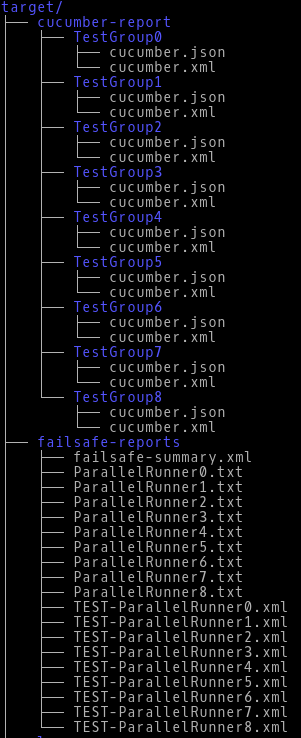
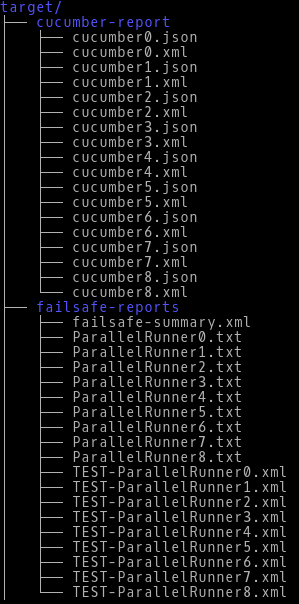
* replaced image file * updated README to reflect new image file and changes made to cuke runner template

Changed region(s): [[0.0, 0.0, 0.9632, 1.0]]

diff --git a/README.md b/README.md
@@ -223,9 +223,11 @@ To demonstrate what the output looks like, let's assume we've used the Groovy te
 
 ![Sample Output](./images/cucumber-report-directory-structure.png)
 
-As shown, a `TestGroup` directory is created for each of the parallel test runs.  Contained within `TestGroup` directory is the `cucumber.json` and `cucumber.xml` files.
+As shown, contained within the `cucumber-report` directory are each of the JSON and XML files -- one for each scenario.
 
 IMPORTANT: The Cucumber Slices Plugin is not designed to aggregate the test output into a single report. There are other plugins that can assist in this (e.g., [Masterthought's Cucumber Reporting Plugin](http://search.maven.org/#search%7Cgav%7C1%7Cg%3A%22net.masterthought%22%20AND%20a%3A%22maven-cucumber-reporting%22))
+
+
 
 ## FAQs
 
